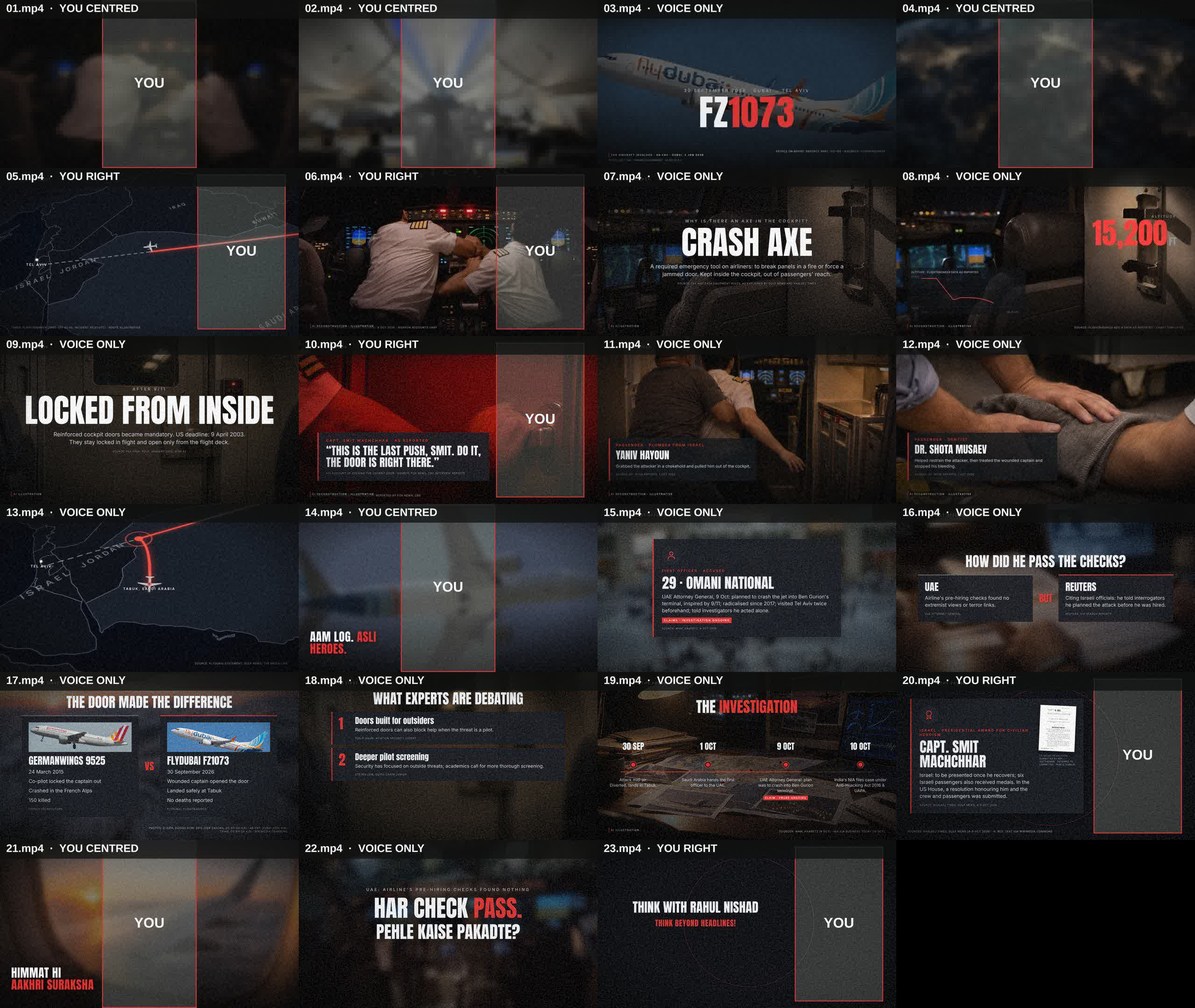
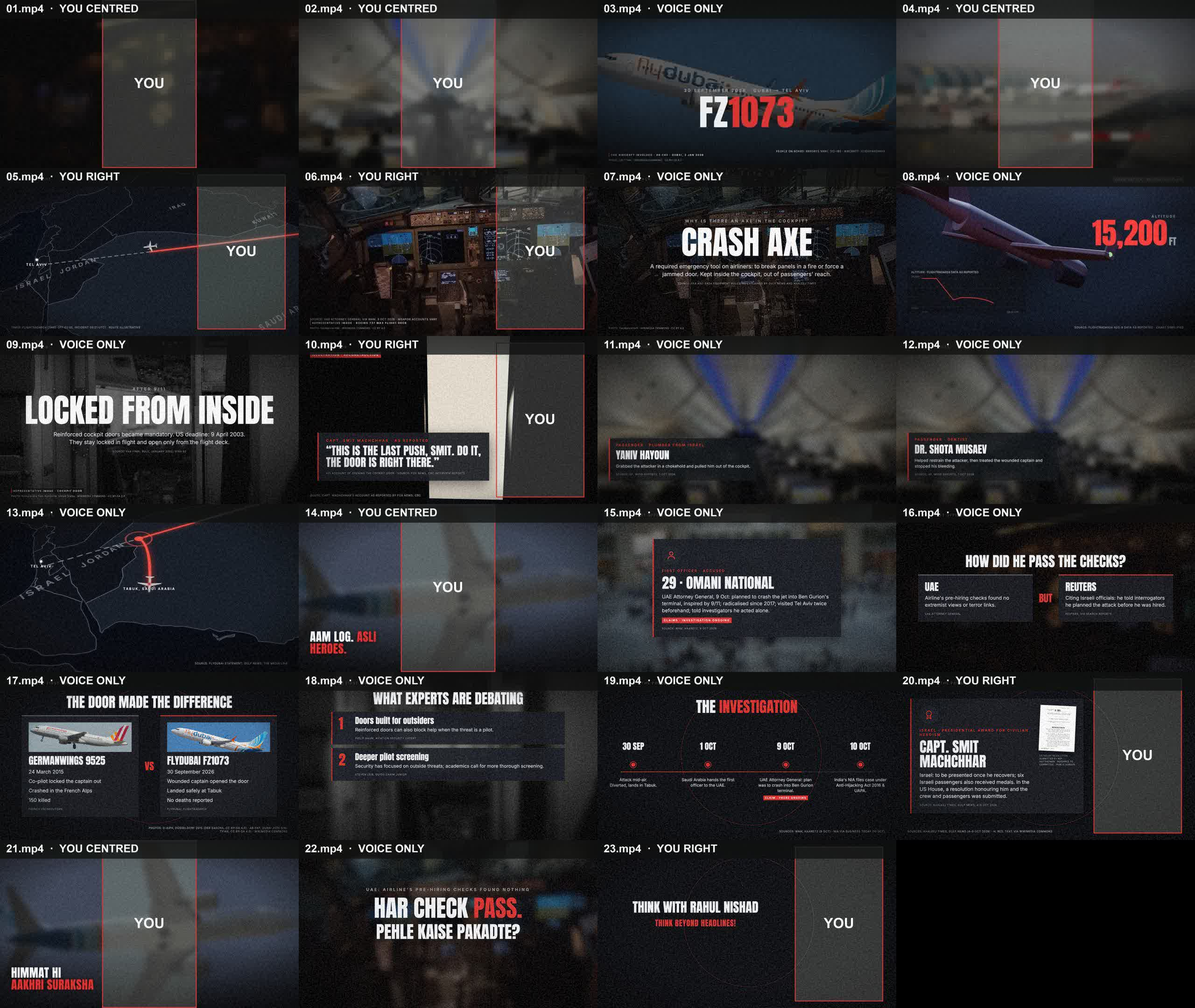
Make the storyboard check run on macOS
Pick a font that exists on Linux or macOS, quote it in the filter, and
prefer Homebrew's ffmpeg-full, since the plain ffmpeg formula lacks the
drawtext filter. Regenerates STORYBOARD.jpg with the Flow stills.

diff --git a/samples/fz1073/storyboard.py b/samples/fz1073/storyboard.py
@@ -8,7 +8,9 @@ tl = ml.build_timeline(sc, {s["n"]: len(s["text"].split()) / 140 * 60 for s in s
 json.dump(tl, open("timeline.preview.json", "w"), indent=1)
 frames = [int((s["start"] + s["dur"] * 0.62) * 30) for s in tl["scenes"]]
 subprocess.run(["node", "stills.js", "0", "1"], check=True, env=dict(os.environ, TL="timeline.preview.json", OUT="frames_prev", LIST=",".join(map(str, frames))))
-font = "/usr/share/fonts/truetype/liberation/LiberationSans-Bold.ttf"
+font = next((f for f in ("/usr/share/fonts/truetype/liberation/LiberationSans-Bold.ttf", "/System/Library/Fonts/Supplemental/Arial Bold.ttf") if os.path.exists(f)), "")
+font_q = "'" + font.replace(":", "\\:") + "'"
+FF = next((f for f in ("/opt/homebrew/opt/ffmpeg-full/bin/ffmpeg", "/usr/local/opt/ffmpeg-full/bin/ffmpeg") if os.path.exists(f)), "ffmpeg")  # Homebrew's plain ffmpeg has no drawtext
 os.makedirs("sb", exist_ok=True); tiles = []
 for s, f in zip(tl["scenes"], frames):
     vf = []
@@ -16,14 +18,14 @@ for s, f in zip(tl["scenes"], frames):
     if box:
         x, y, w, h = box
         vf.append(f"drawbox=x={x}:y={y}:w={w}:h={h}:color=0xffffff@0.18:t=fill,drawbox=x={x}:y={y}:w={w}:h={h}:color=0xe0312e:t=6,"
-                  f"drawtext=fontfile={font}:text='YOU':fontsize=90:fontcolor=white:x={x}+({w}-tw)/2:y=500")
+                  f"drawtext=fontfile={font_q}:text='YOU':fontsize=90:fontcolor=white:x={x}+({w}-tw)/2:y=500")
     lab = {"C": "YOU CENTRED", "L": "YOU RIGHT", "F": "VOICE ONLY"}[s["layout"]]
-    vf.append(f"drawbox=x=0:y=0:w=1920:h=120:color=black@0.75:t=fill,drawtext=fontfile={font}:text='{s['n']:02d}.mp4  ·  {lab}':fontsize=70:fontcolor=white:x=40:y=28")
+    vf.append(f"drawbox=x=0:y=0:w=1920:h=120:color=black@0.75:t=fill,drawtext=fontfile={font_q}:text='{s['n']:02d}.mp4  ·  {lab}':fontsize=70:fontcolor=white:x=40:y=28")
     out = f"sb/{s['n']:02d}.jpg"
-    subprocess.run(["ffmpeg", "-y", "-loglevel", "error", "-i", f"frames_prev/{f:05d}.jpg", "-vf", ",".join(vf) + ",scale=640:360", out], check=True); tiles.append(out)
-while len(tiles) % 4: tiles.append("sb/blank.jpg") if os.path.exists("sb/blank.jpg") else subprocess.run(["ffmpeg","-y","-loglevel","error","-f","lavfi","-i","color=c=black:s=640x360","-frames:v","1","sb/blank.jpg"],check=True) or tiles.append("sb/blank.jpg")
+    subprocess.run([FF, "-y", "-loglevel", "error", "-i", f"frames_prev/{f:05d}.jpg", "-vf", ",".join(vf) + ",scale=640:360", out], check=True); tiles.append(out)
+while len(tiles) % 4: tiles.append("sb/blank.jpg") if os.path.exists("sb/blank.jpg") else subprocess.run([FF,"-y","-loglevel","error","-f","lavfi","-i","color=c=black:s=640x360","-frames:v","1","sb/blank.jpg"],check=True) or tiles.append("sb/blank.jpg")
 rows = []
 for r in range(0, len(tiles), 4):
-    o = f"sb/row{r // 4}.jpg"; subprocess.run(["ffmpeg", "-y", "-loglevel", "error", *sum([["-i", t] for t in tiles[r:r + 4]], []), "-filter_complex", "hstack=inputs=4", o], check=True); rows.append(o)
-subprocess.run(["ffmpeg", "-y", "-loglevel", "error", *sum([["-i", t] for t in rows], []), "-filter_complex", f"vstack=inputs={len(rows)}", "STORYBOARD.jpg"], check=True)
+    o = f"sb/row{r // 4}.jpg"; subprocess.run([FF, "-y", "-loglevel", "error", *sum([["-i", t] for t in tiles[r:r + 4]], []), "-filter_complex", "hstack=inputs=4", o], check=True); rows.append(o)
+subprocess.run([FF, "-y", "-loglevel", "error", *sum([["-i", t] for t in rows], []), "-filter_complex", f"vstack=inputs={len(rows)}", "STORYBOARD.jpg"], check=True)
 print("STORYBOARD.jpg:", len(sc), "scenes, about", round(tl["total"] / 60, 1), "min")
